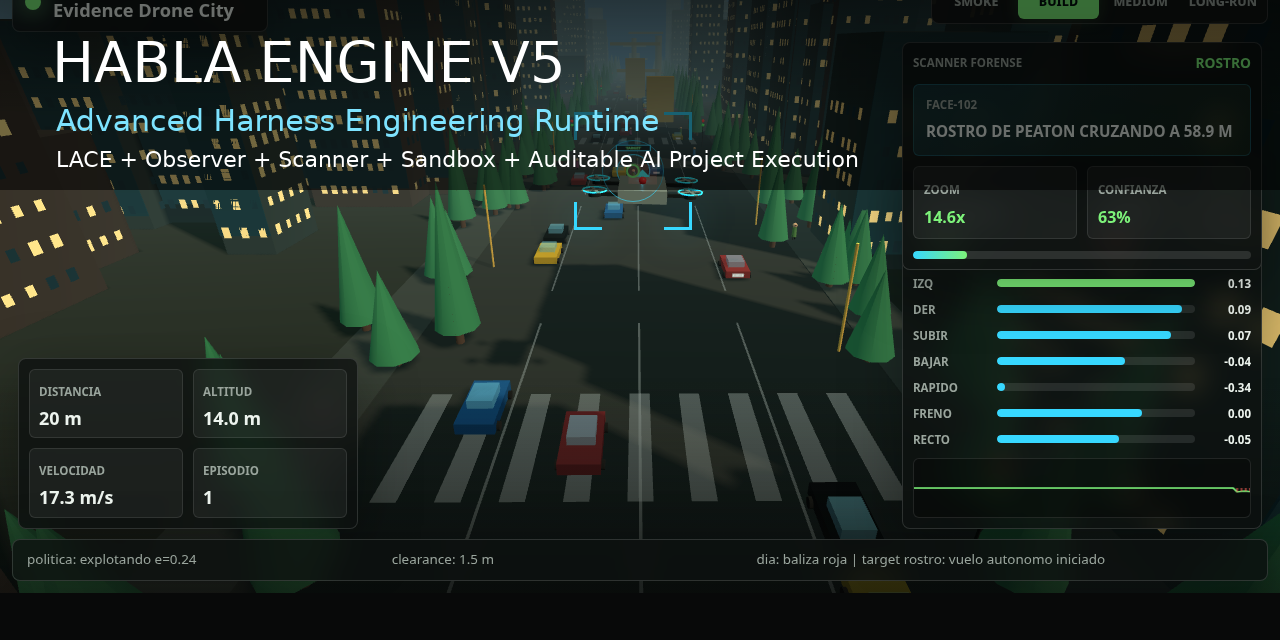
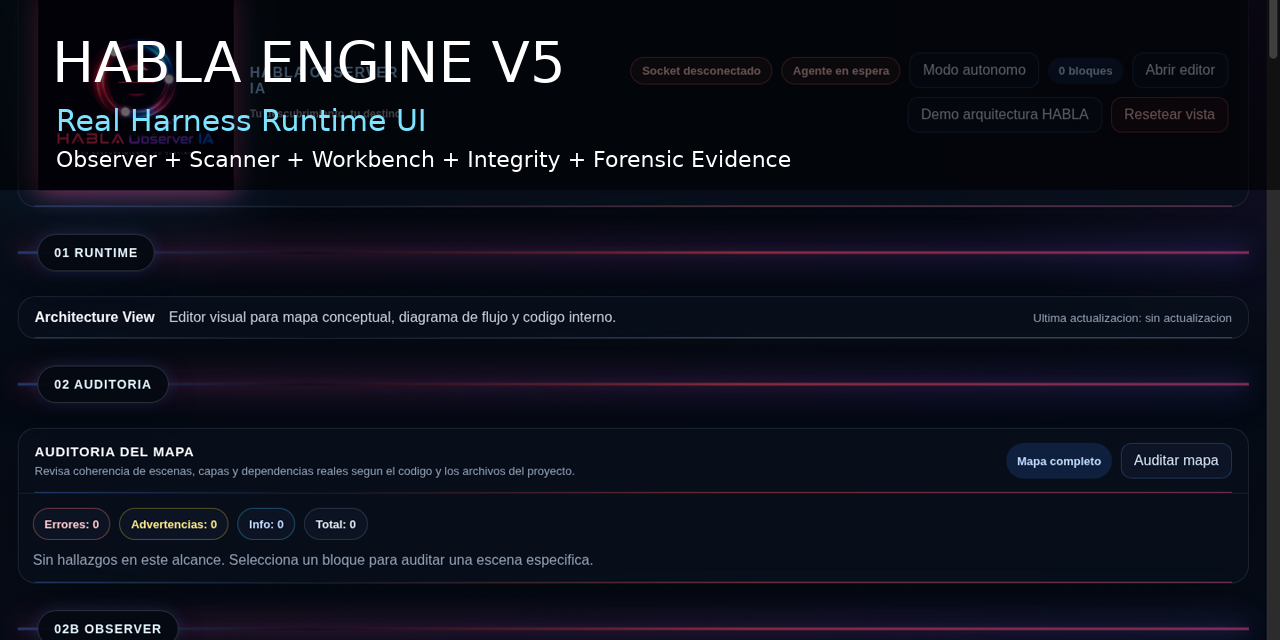
Prioritize real system visuals

diff --git a/docs/index.html b/docs/index.html
@@ -344,9 +344,9 @@
       <div>
         <h1>HABLA Engine V5 ejecutando procesos reales</h1>
         <p>
-          Galeria operacional del harness: scanner final, Observer, sandbox,
-          integridad, huellas SHA-256, Frozen Sniper y evidencia visual del
-          juego 3D autonomo.
+          Galeria operacional del harness real: runtime, Observer, scanner,
+          workbench, integridad, huellas SHA-256, Frozen Sniper y evidencia
+          visual del juego 3D autonomo generado por el sistema.
         </p>
         <div class="badges" aria-label="Resumen de evidencia">
           <span class="badge">116 tareas completadas</span>
@@ -407,7 +407,7 @@
         <div class="grid">
           <article class="card">
             <figure>
-              <img src="media/browser-smoke.png" alt="Smoke visual del navegador" />
+              <img src="media/system-real-scanner.png" alt="Scanner final real en HABLA" />
             </figure>
             <div class="card-body">
               <h3>Scanner final</h3>
@@ -424,9 +424,9 @@
             </div>
           </article>
 
-          <article class="card observer">
+          <article class="card">
             <figure>
-              <img src="media/observer-eye.gif" alt="HABLA Observer IA animado" />
+              <img src="media/system-real-observer.png" alt="Observer Plane real de HABLA" />
             </figure>
             <div class="card-body">
               <h3>Observer</h3>
@@ -445,10 +445,10 @@
 
           <article class="card">
             <figure>
-              <img src="media/game-city.png" alt="Juego 3D creado por HABLA" />
+              <img src="media/system-real-workbench.png" alt="Workbench real de HABLA" />
             </figure>
             <div class="card-body">
-              <h3>Sandbox runtime</h3>
+              <h3>Workbench runtime</h3>
               <p>
                 Servidor local listo, URL embebible y healthcheck HTTP usado
                 como evidencia del proyecto ejecutable.
@@ -464,7 +464,7 @@
 
           <article class="card">
             <figure>
-              <img src="media/mobile-evidence.png" alt="Evidencia movil del sandbox" />
+              <img src="media/system-real-integrity.png" alt="Integridad y huellas reales de HABLA" />
             </figure>
             <div class="card-body">
               <h3>Integridad final</h3>
@@ -483,7 +483,7 @@
 
           <article class="card">
             <figure>
-              <img src="media/game-night.png" alt="Validacion nocturna del mundo 3D" />
+              <img src="media/system-real-overview.png" alt="Vista general real del runtime HABLA" />
             </figure>
             <div class="card-body">
               <h3>LACE y cola</h3>
@@ -554,17 +554,17 @@ runtime/sandbox.json</code>
         <div class="section-title">
           <h2 id="screens-title">Evidencia visual</h2>
           <p>
-            Capturas generadas por validaciones reales del proyecto 3D y por la
-            interfaz visual del Observer.
+            Primero se muestran capturas reales de la plataforma HABLA corriendo.
+            Despues aparece el juego 3D como evidencia generada por el harness.
           </p>
         </div>
         <div class="gallery">
-          <img src="media/game-city.png" alt="Ciudad 3D con drone autonomo" />
-          <img src="media/game-night.png" alt="Escena nocturna del juego 3D" />
-          <img class="mobile" src="media/mobile-day.png" alt="Vista movil de validacion" />
-          <img src="media/browser-smoke.png" alt="Smoke render del navegador" />
-          <img class="mobile" src="media/mobile-evidence.png" alt="Evidencia movil del sandbox" />
-          <img class="mobile" src="media/observer-eye.gif" alt="Observer IA visual" />
+          <img src="media/system-real-overview.png" alt="Vista general real del sistema HABLA" />
+          <img src="media/system-real-observer.png" alt="Observer Plane real" />
+          <img src="media/system-real-workbench.png" alt="Code Workbench real" />
+          <img src="media/system-real-scanner.png" alt="Scanner final real" />
+          <img src="media/system-real-integrity.png" alt="Integridad y huellas reales" />
+          <img src="media/game-city.png" alt="Juego 3D generado por HABLA" />
         </div>
       </section>
     </main>

diff --git a/README.md b/README.md
@@ -11,21 +11,26 @@ Esa es la diferencia entre HABLA y un asistente de programacion normal. HABLA no
 ## Demo Visual Del Sistema
 
 <p align="center">
-  <img src="vista_IA/architecture-react-three-flask-socketio/workspace/projects/sesion-20260518014728-jeego-en-3d/runtime/artifacts/validation-build-evidence-city.png" alt="Drone War City ejecutado por HABLA Engine V5" width="100%">
+  <img src="docs/media/system-real-overview.png" alt="HABLA Engine V5 corriendo con runtime, Observer, CyberLACE y workbench" width="100%">
 </p>
 
 <p align="center">
-  <img src="vista_IA/architecture-react-three-flask-socketio/workspace/projects/sesion-20260518014728-jeego-en-3d/runtime/artifacts/validation-build-night.png" alt="Validacion nocturna del mundo 3D" width="49%">
-  <img src="vista_IA/architecture-react-three-flask-socketio/workspace/projects/sesion-20260518014728-jeego-en-3d/runtime/artifacts/browser_render_smoke.png" alt="Smoke test visual del navegador" width="49%">
+  <img src="docs/media/system-real-observer.png" alt="Observer Plane real de HABLA" width="49%">
+  <img src="docs/media/system-real-workbench.png" alt="Code Workbench real de HABLA" width="49%">
 </p>
 
 <p align="center">
-  <img src="vista_IA/architecture-react-three-flask-socketio/workspace/projects/sesion-20260518014728-jeego-en-3d/runtime/artifacts/validation-smoke-day.png" alt="Validacion movil del juego 3D" width="24%">
-  <img src="vista_IA/architecture-react-three-flask-socketio/workspace/projects/sesion-[phone redacted]-jeego-en-3d/runtime/artifacts/validation-smoke-evidence-mobile.png" alt="Evidencia movil del sandbox" width="24%">
-  <img src="vista_IA/architecture-react-three-flask-socketio/frontend/public/assets/img/HABLA_Observer_IA_ojo_random_giro_guino_parpadeo.gif" alt="HABLA Observer IA animado" width="24%">
+  <img src="docs/media/system-real-scanner.png" alt="Scanner final real en el workbench HABLA" width="49%">
+  <img src="docs/media/system-real-integrity.png" alt="Integridad y huellas reales en HABLA" width="49%">
 </p>
 
-Estas imagenes no son mockups. Son artefactos versionados de validacion del runtime, el sandbox, el juego 3D autonomo y el Observer visual.
+<p align="center">
+  <img src="docs/media/game-city.png" alt="Juego 3D autonomo generado y validado por HABLA" width="49%">
+  <img src="docs/media/observer-eye.gif" alt="HABLA Observer IA animado" width="24%">
+  <img src="docs/media/mobile-evidence.png" alt="Evidencia movil del sandbox generado" width="24%">
+</p>
+
+Las primeras capturas son del sistema HABLA real corriendo: runtime, Observer, scanner, workbench, integridad y huellas. El juego 3D aparece despues como evidencia de un proyecto ejecutado por el harness, no como sustituto de la plataforma.
 
 Video corto de evidencia visual: [`docs/media/habla-evidence-reel.mp4`](docs/media/habla-evidence-reel.mp4)
 

diff --git a/docs/media/README.md b/docs/media/README.md
@@ -4,6 +4,11 @@ This folder contains public-facing media generated from versioned runtime eviden
 
 - `habla-evidence-reel.mp4`: short evidence reel compiled from project artifacts and the Observer animation.
 - `social-preview.png`: 1280x640 image prepared for GitHub social preview and external sharing.
+- `system-real-overview.png`: real HABLA runtime UI capture.
+- `system-real-observer.png`: real Observer Plane UI capture.
+- `system-real-workbench.png`: real Code Workbench UI capture.
+- `system-real-scanner.png`: real scanner/workbench UI capture.
+- `system-real-integrity.png`: real integrity/fingerprint UI capture.
 - `game-city.png`: validation capture of the autonomous 3D drone city.
 - `game-night.png`: night validation capture of the 3D world.
 - `browser-smoke.png`: browser smoke render capture.